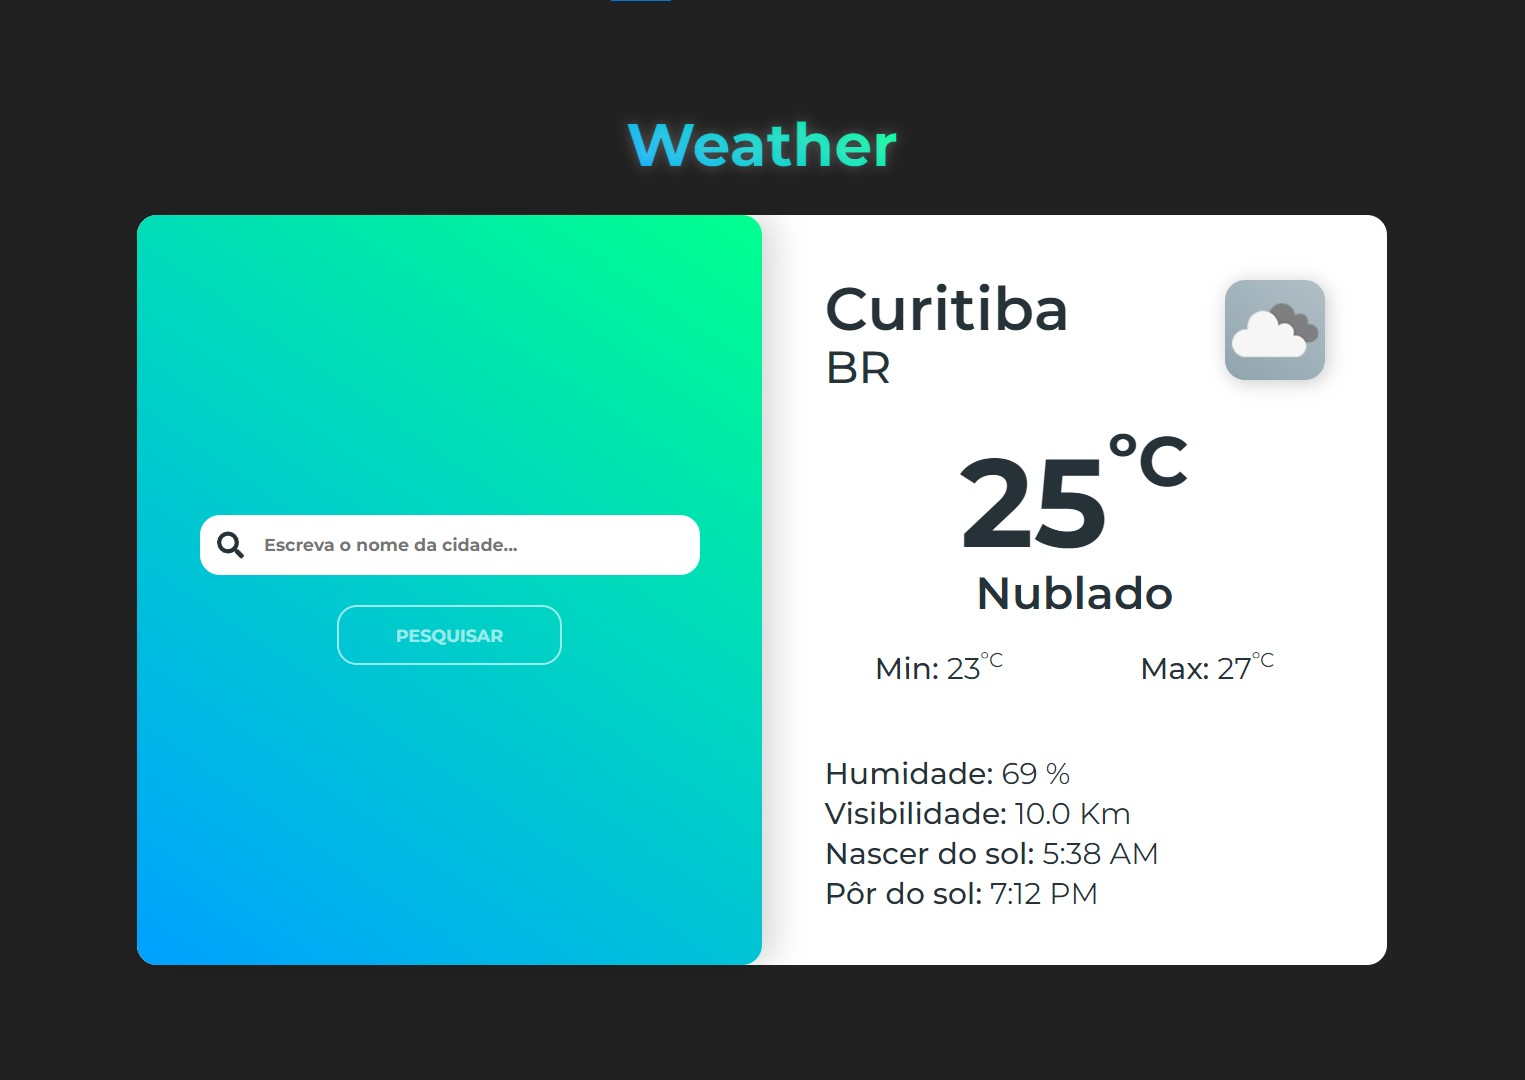
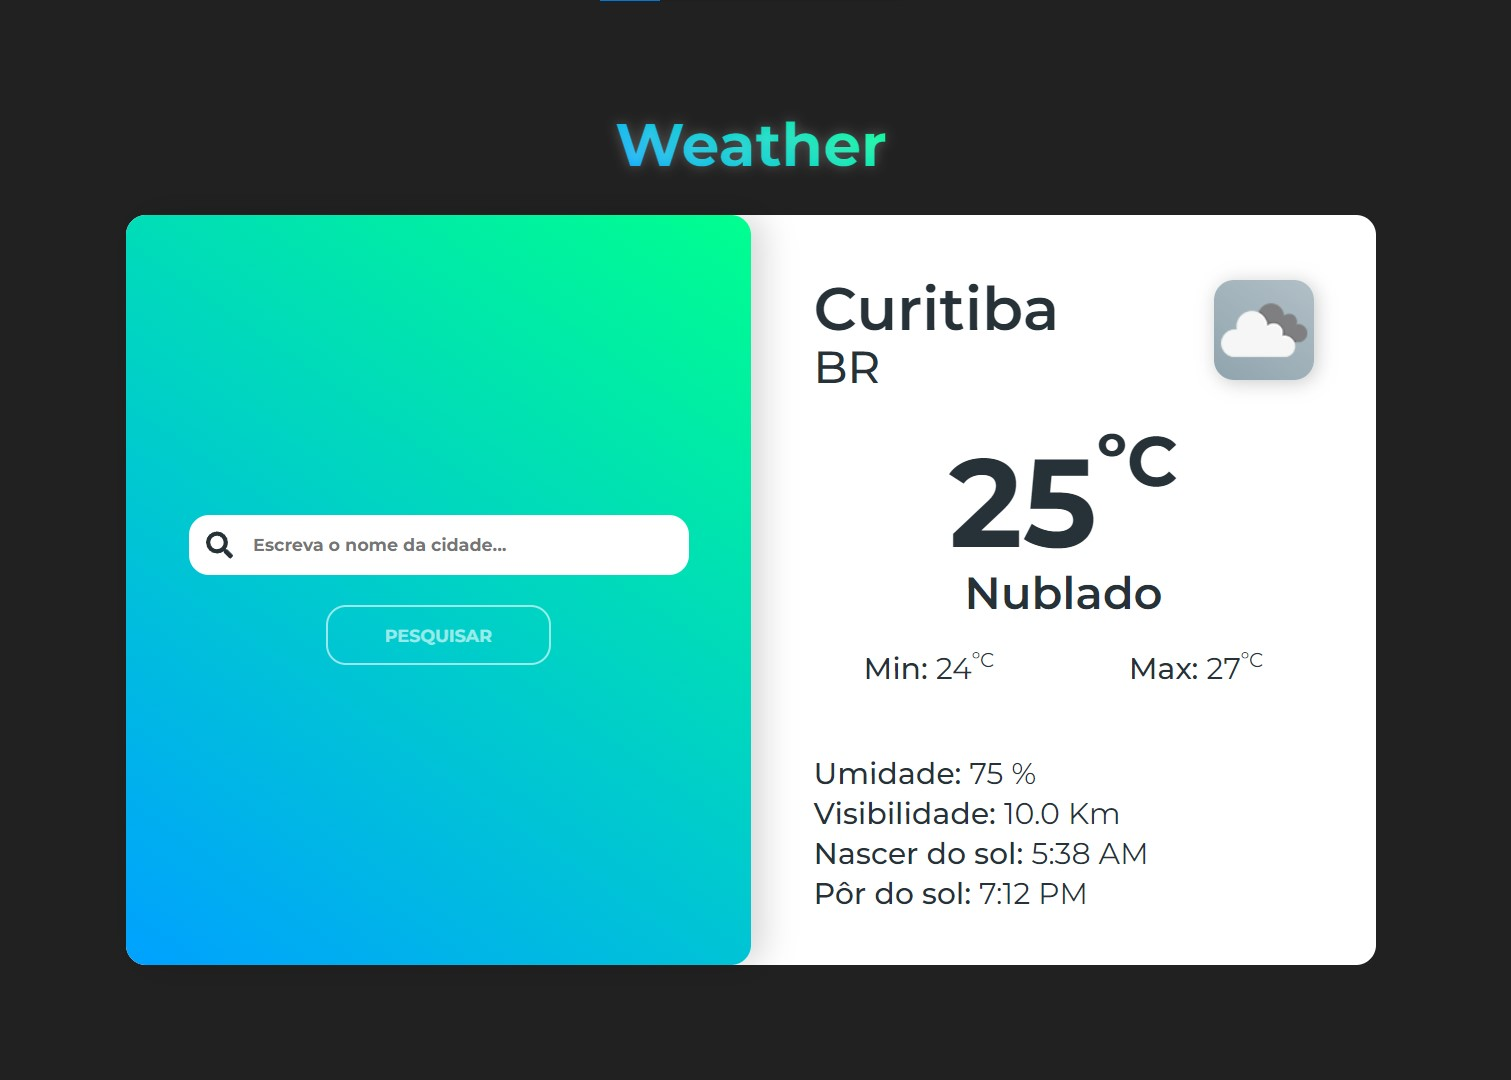
fix: palavra errada

diff --git a/src/components/Info/index.jsx b/src/components/Info/index.jsx
@@ -44,7 +44,7 @@ const Info = ({weatherData}) => {
           </div>         
         </TempContainer>
         <DataInfoContainer>
-          <p><strong>Humidade:</strong> {weatherDataInfo.humidity} %</p>
+          <p><strong>Umidade:</strong> {weatherDataInfo.humidity} %</p>
           <p><strong>Visibilidade:</strong> {weatherDataInfo.visibility.toFixed(1)} Km</p>
           <p><strong>Nascer do sol:</strong> {moment(weatherDataInfo.sunrise, 'X').format('LT')}</p>
           <p><strong>Pôr do sol:</strong> {moment(weatherDataInfo.sunset, 'X').format('LT')}</p>
